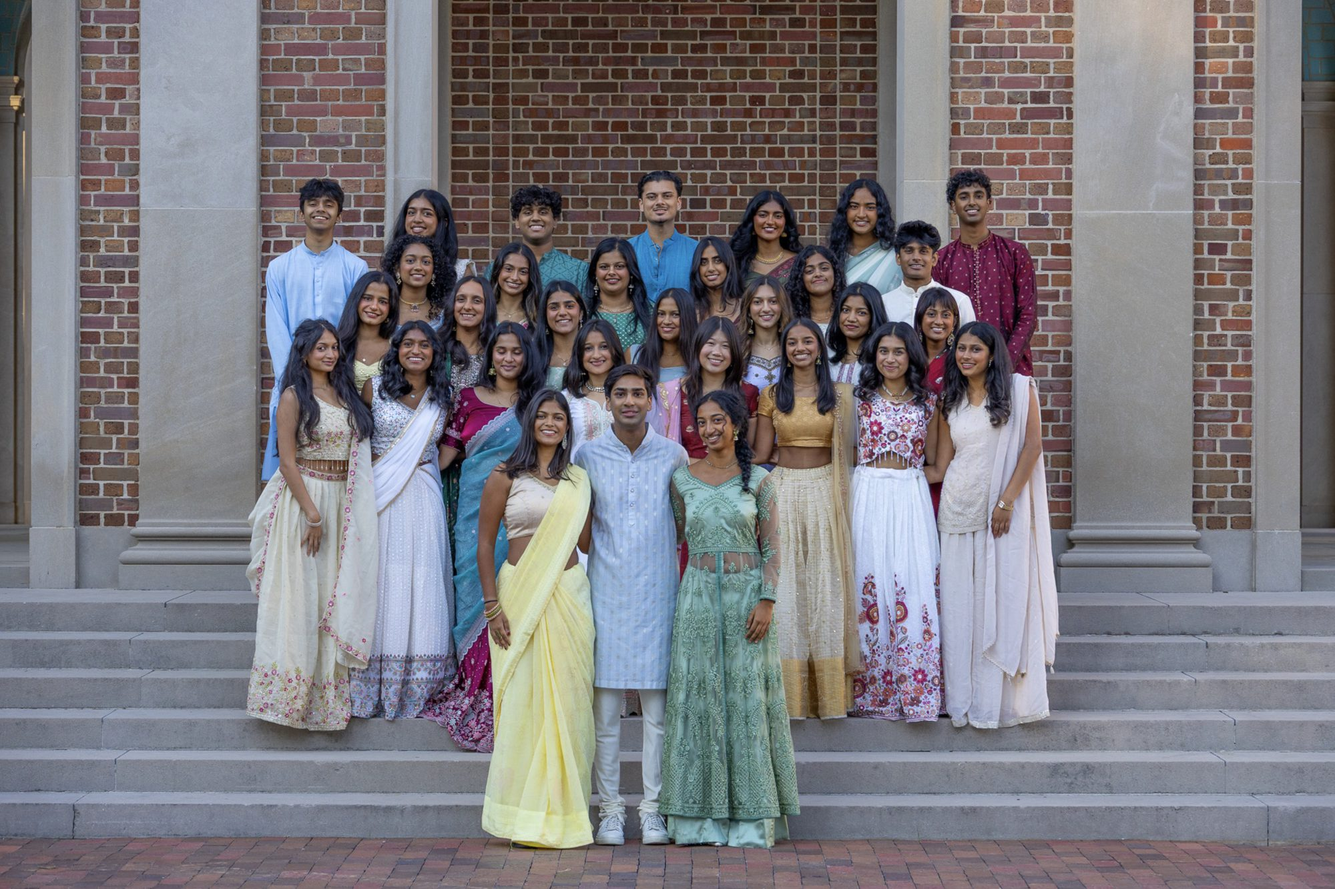
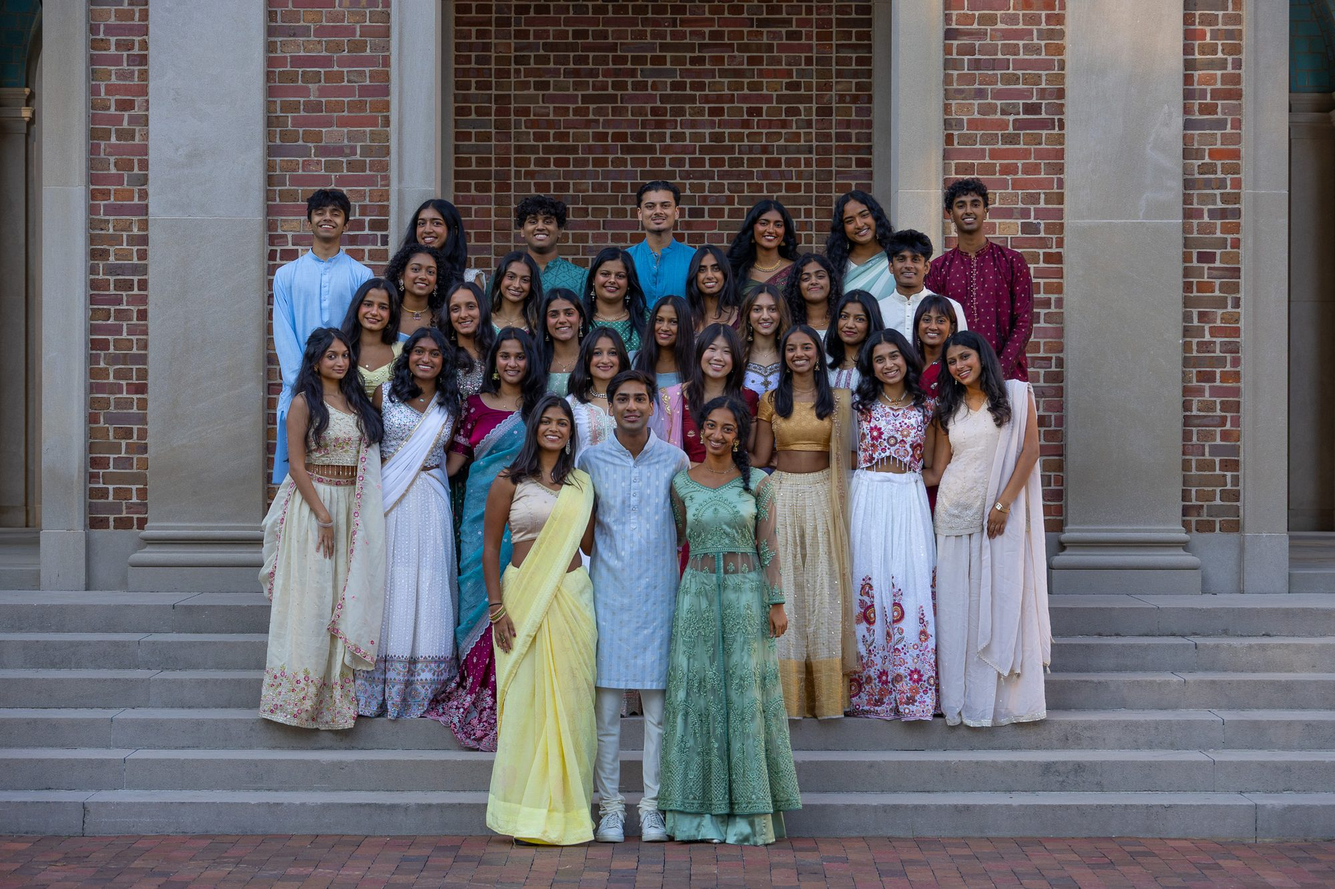
Home: new full board group photo, framed to keep the back row in view

diff --git a/index.html b/index.html
@@ -27,7 +27,7 @@
 @keyframes inR { from { transform: translateX(30vw); opacity: 0; } }
 .band { position: relative; display: block; margin: 14px 0; height: clamp(260px, 52vh, 560px); text-shadow: none; }
 .band .duo { position: absolute; inset: 0; box-shadow: 0 0 0 10px #F8F1E1, 0 18px 40px rgba(74, 35, 18, .3); }
-.band .duo img { object-position: center 44%; }
+.band .duo img { object-position: center 30%; }
 /* Team photo: the same light sepia as the Board prints, with no paper tint or dot screen */
 .duo.soft img { filter: sepia(.35) saturate(.9) contrast(1.03); mix-blend-mode: normal; }
 .duo.soft::before, .duo.soft::after { display: none; }
